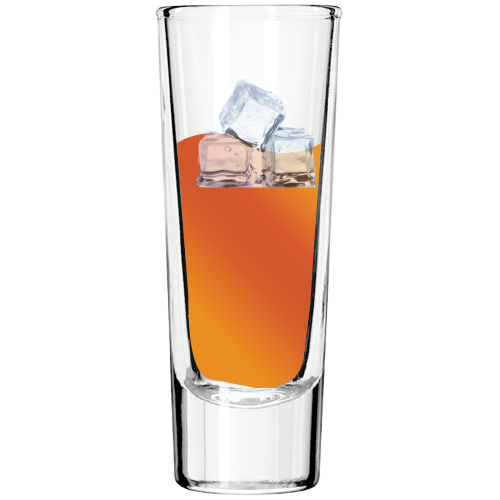
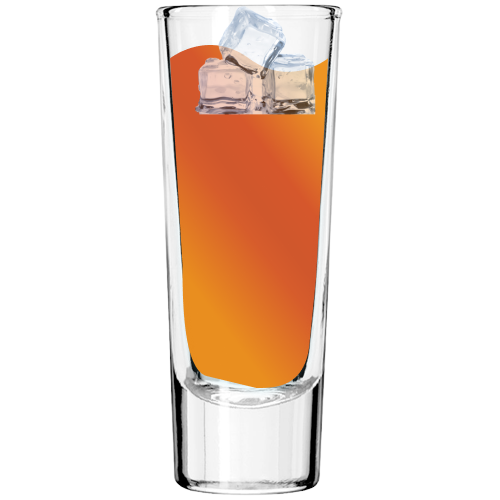
images added

Changed region(s): [[0.33, 0.0, 0.66, 0.75], [0.42, 0.75, 0.48, 0.78]]

diff --git a/src/components/Target.js b/src/components/Target.js
@@ -12,9 +12,14 @@ function collect(connect, monitor) {
 class Target extends Component {
   render() {
     const {connectDropTarget, image} = this.props;
+    console.log(image);
+    const style1 ={width: "110%", height:"520px", overflow:"hidden"}
+    const style2= { width: "110%", height:"500px", overflow:"hidden" , marginTop: "20px"}
+    const style3= image.includes("6")?style1:style2;
+    console.log(style3);
     return connectDropTarget(
       <div className="target">
-        <img src={image} alt="glass" style={{ width: "110%", height:"500px", overflow:"hidden" }}></img>
+        <img src={image} alt="glass" style={style3}></img>
       </div>
     );
   }
